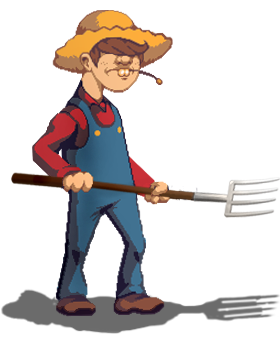
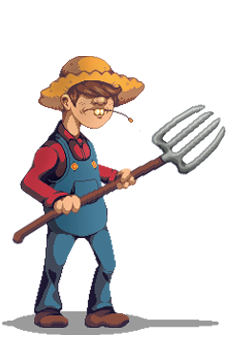
update character and corpse art

diff --git a/src/main/java/thesimpleton/characters/TheSimpletonCharacter.java b/src/main/java/thesimpleton/characters/TheSimpletonCharacter.java
@@ -74,7 +74,7 @@ public class TheSimpletonCharacter extends CustomPlayer {
         super(name, TheSimpletonCharEnum.THE_SIMPLETON, orbTextures, getResourcePath("char/orb/vfx.png"), null, (String) null);
 
         this.initializeClass(CHAR_IMAGE, SHOULDER_2, SHOULDER_1, CORPSE, getLoadout(),
-                8.0F, -4.0F, 340.0F, 380.0F,
+                4.0F, -6.0F, 250.0F, 380.0F,
                 new EnergyManager(ENERGY_PER_TURN));
 
         initializeOrbSlotLocations();
@@ -247,10 +247,10 @@ public class TheSimpletonCharacter extends CustomPlayer {
     private static float xSpaceBetweenSlots = 90 * Settings.scale;
     private static float xSpaceBottomAlternatingOffset = 0 * Settings.scale;
 
-    private static float yStartOffset = AbstractDungeon.floorY + (100 * Settings.scale);
+    private static float yStartOffset = AbstractDungeon.floorY + (60 * Settings.scale);
 
-    private static float ySpaceBottomAlternatingOffset = -100 * Settings.scale;
-    private static float ySpaceAlternatingOffset = -50 * Settings.scale;
+    private static float ySpaceBottomAlternatingOffset = -60 * Settings.scale;
+    private static float ySpaceAlternatingOffset = -40 * Settings.scale;
 
     public void initializeOrbSlotLocations() {
         orbPositionsX[0] = xStartOffset + (xSpaceBetweenSlots * 1);
